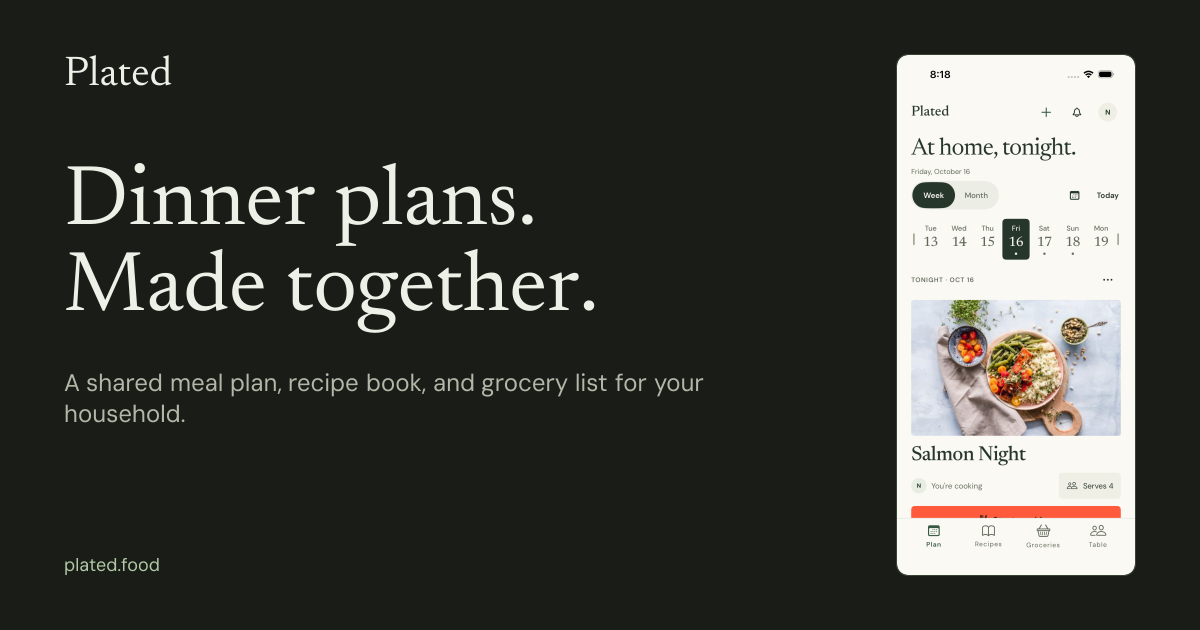
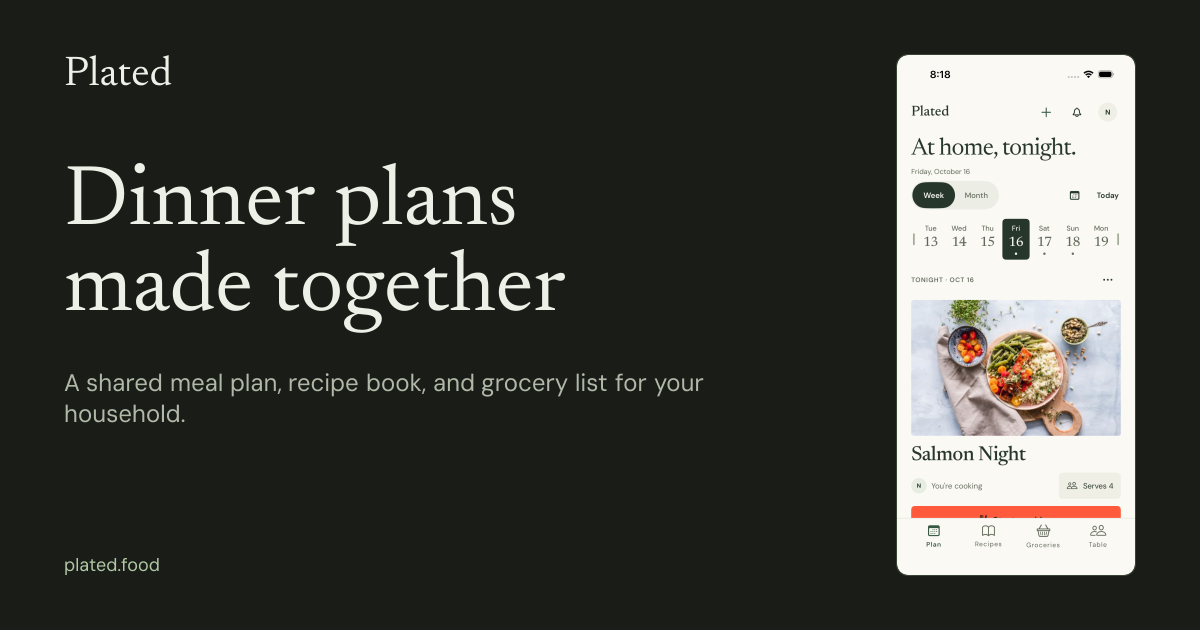
Soften website headlines and use American spelling

Changed region(s): [[0.0617, 0.3921, 0.4933, 0.5429], [0.4317, 0.3317, 0.4625, 0.3619]]

diff --git a/web/app/page.tsx b/web/app/page.tsx
@@ -50,7 +50,7 @@ export default function Home() {
       <section className={styles.hero} aria-labelledby="hero-title">
         <div className={styles.heroCopy}>
           <h1 className={styles.eyebrow}>The meal planner for your household</h1>
-          <h2 id="hero-title" className={styles.heroTitle}>Dinner plans.<br />Made together.</h2>
+          <h2 id="hero-title" className={styles.heroTitle}>Dinner plans{" "}<br />made together</h2>
           <p className={styles.heroDescription}>Decide what&rsquo;s for dinner, who&rsquo;s cooking, and what to pick up. One shared plan for your whole household.</p>
           <div className={styles.heroActions}>
             <Link className={styles.primaryAction} href={EARLY_ACCESS_URL}>Request early access <Arrow /></Link>
@@ -68,8 +68,8 @@ export default function Home() {
       <section id="how-it-works" className={styles.product} aria-labelledby="product-title">
         <div className={styles.productHeading}>
           <p className={styles.category}>How Plated works</p>
-          <h2 id="product-title">Share the plan.<br />Share the cooking.</h2>
-          <p>Choose dinner together. Give each night a cook.<br className={styles.desktopBreak} /> Keep everyone in the loop, from the recipe to the shopping.</p>
+          <h2 id="product-title">Share the plan{" "}<br />and the cooking</h2>
+          <p>Choose dinner together and decide who&rsquo;s cooking.<br className={styles.desktopBreak} /> Everyone stays in the loop, from the recipe to the shopping.</p>
         </div>
         <ProductTour />
       </section>
@@ -77,11 +77,11 @@ export default function Home() {
       <section className={styles.tableSection} aria-labelledby="table-title">
         <div className={styles.tableCopy}>
           <p className={styles.category}>Your Table</p>
-          <h2 id="table-title">Good meals are<br />worth sharing.</h2>
-          <p>A weeknight win. An old family recipe. Pancakes for dinner. Share what you&rsquo;ve cooked with the friends you invite to your Table.</p>
+          <h2 id="table-title">Good meals are{" "}<br />worth sharing</h2>
+          <p>From an old family recipe to pancakes for dinner, share what you&rsquo;ve cooked with the friends you invite to your Table.</p>
           <div className={styles.privateNote}>
             <svg viewBox="0 0 24 24" width="22" height="22" fill="none" stroke="currentColor" strokeWidth="1.3" aria-hidden="true"><rect x="5" y="10" width="14" height="11" rx="2" /><path d="M8 10V7a4 4 0 0 1 8 0v3m-4 5v2" /></svg>
-            <div><strong>Invite-only. Shared by you.</strong><span>Cooking a meal never posts it automatically.</span></div>
+            <div><strong>Invite-only, shared by you</strong><span>Cooking a meal never posts it automatically.</span></div>
           </div>
           <Link className={styles.textLink} href="/privacy">How Plated keeps things private <Arrow /></Link>
         </div>
@@ -92,7 +92,7 @@ export default function Home() {
       </section>
 
       <section className={styles.closing} aria-labelledby="closing-title">
-        <div><h2 id="closing-title">Your next dinner,<br />planned together.</h2><p>Bring your recipes. Invite your household. Start with one night.</p></div>
+        <div><h2 id="closing-title">Your next dinner,{" "}<br />planned together</h2><p>Bring your recipes and your household together, one dinner at a time.</p></div>
         <div className={styles.closingActions}>
           <Link className={styles.primaryAction} href={EARLY_ACCESS_URL}>Request early access <Arrow /></Link>
           <p className={styles.availability}>For iPhone and iPad. Invitations by email.</p>
@@ -100,7 +100,7 @@ export default function Home() {
       </section>
 
       <section id="questions" className={styles.questions} aria-labelledby="questions-title">
-        <h2 id="questions-title">A few things to know.</h2>
+        <h2 id="questions-title">A few things to know</h2>
         <div className={styles.questionList}>
           {questions.map(({ question, answer }) => <details key={question}>
             <summary>{question}<span aria-hidden="true" /></summary>
@@ -111,7 +111,7 @@ export default function Home() {
     </main>
 
     <footer className={styles.footer}>
-      <div className={styles.footerBrand}><Link href="#main" aria-label="Plated home"><Wordmark size={34} /></Link><p>A shared plan for the food<br />and people you love.</p></div>
+      <div className={styles.footerBrand}><Link href="#main" aria-label="Plated home"><Wordmark size={34} /></Link><p>A shared plan for the food<br />and people you love</p></div>
       <nav aria-label="Footer navigation"><a href="#recipes">The food</a><a href="#how-it-works">How it works</a><a href="#questions">Questions</a><Link href="/privacy">Privacy</Link></nav>
       <div className={styles.footerNote}><AppStoreBadge /><span>© {new Date().getFullYear()} Plated</span></div>
     </footer>

diff --git a/web/app/components/ProductTour.tsx b/web/app/components/ProductTour.tsx
@@ -7,9 +7,9 @@ import { type AppScreen } from "./PhoneScreenshot";
 import styles from "./ProductTour.module.css";
 
 const steps: { screen: AppScreen; label: string; title: string; description: string; caption: string }[] = [
-  { screen: "plan", label: "Plan", title: "What’s for dinner. Who’s cooking.", description: "Choose a meal and assign a cook. Your whole household sees who’s making what, so organising dinner doesn’t always fall to the same person.", caption: "The meal, the night, and the person cooking" },
-  { screen: "recipes", label: "Recipes", title: "Keep your favourites close.", description: "Add your own recipes, save one from a link, or keep a dish a friend shares at your Table. Your household’s recipe book grows with you.", caption: "Your household’s recipe book" },
-  { screen: "groceries", label: "Groceries", title: "Share the shopping, too.", description: "Bring ingredients from your planned meals into one shared grocery list. Everyone knows what’s left to pick up.", caption: "Groceries for your planned meals" },
+  { screen: "plan", label: "Plan", title: "What’s for dinner and who’s cooking", description: "Choose a meal and assign a cook. Your whole household sees who’s making what, so organizing dinner doesn’t always fall to the same person.", caption: "The meal, the night, and the person cooking" },
+  { screen: "recipes", label: "Recipes", title: "Keep your favorites close", description: "Add your own recipes, save one from a link, or keep a dish a friend shares at your Table. Your household’s recipe book grows with you.", caption: "Your household’s recipe book" },
+  { screen: "groceries", label: "Groceries", title: "Share the shopping, too", description: "Bring ingredients from your planned meals into one shared grocery list. Everyone knows what’s left to pick up.", caption: "Groceries for your planned meals" },
 ];
 
 const cooks = [
@@ -58,7 +58,7 @@ export default function ProductTour() {
       <div className={styles.frame}>
         {steps.map((step, index) => <div key={step.screen} className={styles.screen} data-active={index === selected} aria-hidden={index !== selected} inert={index !== selected}><AppShowcase screen={step.screen} appearance="light" compact eager={preload} capture={step.screen === "plan" ? { src: "/app/plan-sam-light-818.png", alt: "Plated’s Plan screen showing Sam’s avatar, Pizza Night, and Sam is cooking" } : undefined} /></div>)}
       </div>
-      <p className={styles.caption}>{steps[selected].screen === "plan" ? "Pizza Night. Sam’s cooking tomorrow." : steps[selected].caption}</p>
+      <p className={styles.caption}>{steps[selected].screen === "plan" ? "Sam’s cooking Pizza Night tomorrow" : steps[selected].caption}</p>
     </div>
     <div className={styles.story}>
       {steps.map((step, index) => <section key={step.screen} id={`tour-${step.screen}`} ref={element => { sections.current[index] = element; }} className={styles.step} data-active={selected === index} aria-labelledby={`tour-${step.screen}-title`}>

diff --git a/web/app/early-access/page.tsx b/web/app/early-access/page.tsx
@@ -20,14 +20,14 @@ export default function EarlyAccess() {
     <main className={styles.main}>
       <div className={styles.copy}>
         <p className={styles.eyebrow}>Early access</p>
-        <h1>Try Plated<br />together.</h1>
+        <h1>Try Plated{" "}<br />together</h1>
         <p className={styles.description}>Leave your email to request an invitation for your household. We’re inviting people in batches.</p>
         <div className={styles.form}><WaitlistForm intent="early-access" /></div>
         <p className={styles.expectation}>If invited, you’ll install Plated through Apple’s TestFlight app. Available for iPhone and iPad.</p>
       </div>
       <aside className={styles.preview} aria-label="Inside Plated">
         <AppShowcase screen="plan" appearance="light" compact capture={{ src: "/app/plan-sam-light-818.png", alt: "Plated’s shared dinner plan showing Pizza Night and Sam is cooking" }} />
-        <p>Sam’s cooking Pizza Night.</p>
+        <p>Sam’s cooking Pizza Night</p>
       </aside>
     </main>
   </>;

diff --git a/web/app/components/FoodGallery.tsx b/web/app/components/FoodGallery.tsx
@@ -35,7 +35,7 @@ export default function FoodGallery() {
     </div>
     <div className={styles.copy}>
       <p className={styles.eyebrow}>Your recipe book</p>
-      <h2 id="food-title">Your favourites.<br />With room for theirs.</h2>
+      <h2 id="food-title">Your favorites{" "}<br />with room for theirs</h2>
       <p className={styles.description}>Save your own recipes and the ones friends share at your Table. Keep them in one place, ready for dinner.</p>
       <a href="#tour-recipes" className={styles.link}>Make the recipe book yours <span aria-hidden="true">↗</span></a>
     </div>
